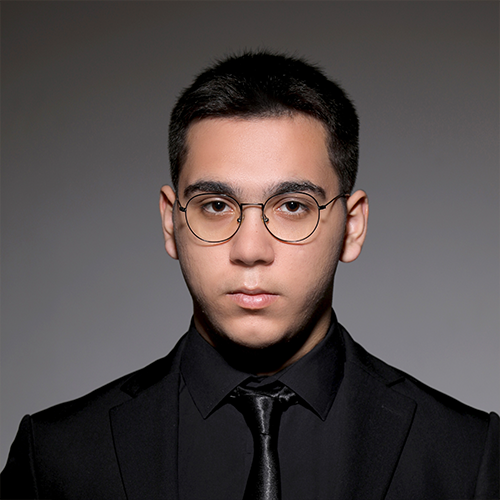
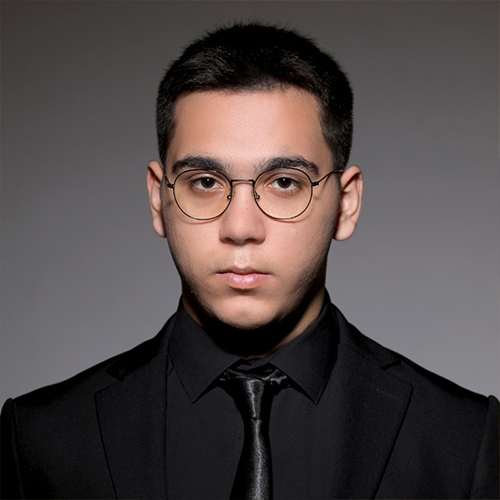
yigitph

diff --git a/team.html b/team.html
@@ -237,7 +237,7 @@
                             <div class="uni-artist-avatar uk-grid uk-grid-collapse uk-child-width-1-1 uk-flex-middle uk-grid-stack" data-uk-grid="">
                                 <div class="uk-first-column">
                                     <div class="uk-panel uk-overflow-hidden">
-                                        <img class="uk-cover uk-radius-medium uk-radius-large@m" src="../assets/teamPhotos/empty.png" alt="" data-uk-cover="" style="height: 198px; width: 198px;">
+                                        <img class="uk-cover uk-radius-medium uk-radius-large@m" src="../assets/teamPhotos/yigit.png" alt="" data-uk-cover="" style="height: 198px; width: 198px;">
                                         <canvas width="400" height="400"></canvas>
                                     </div>
                                 </div>
